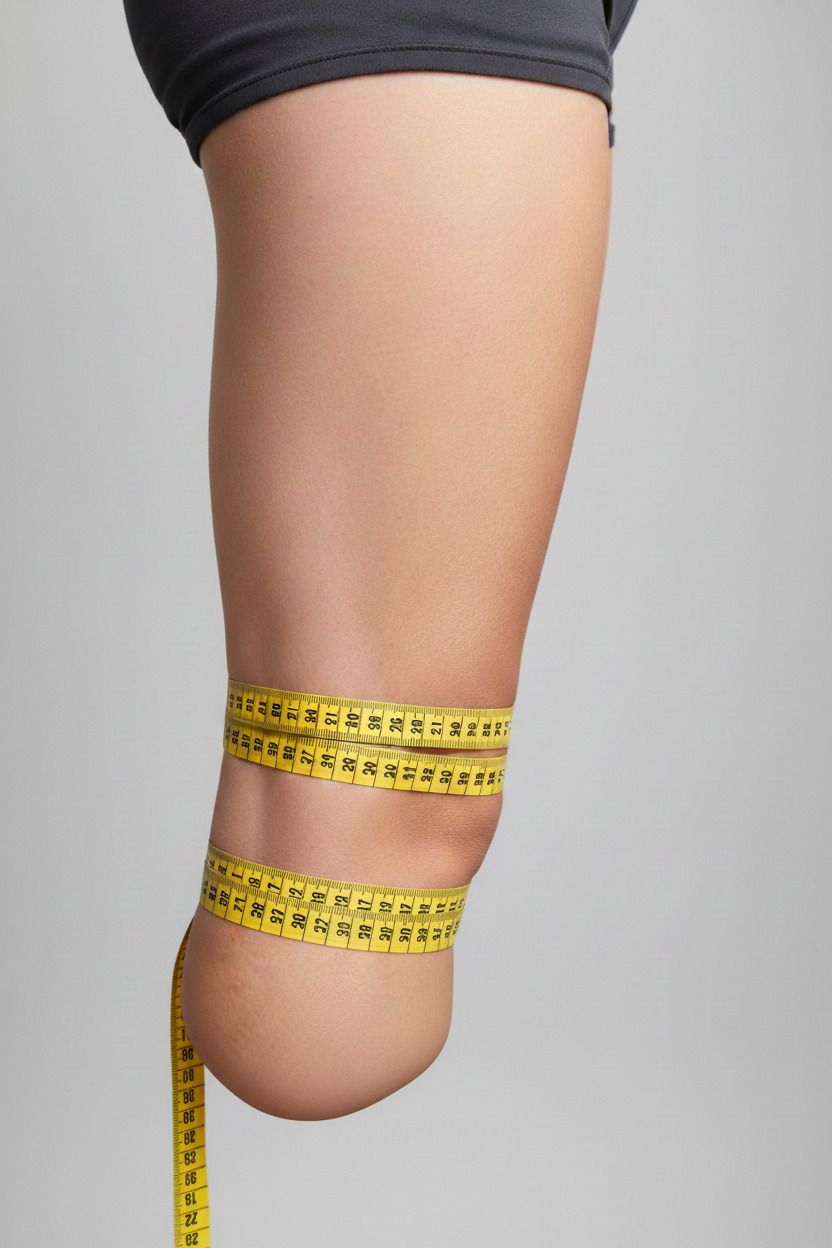
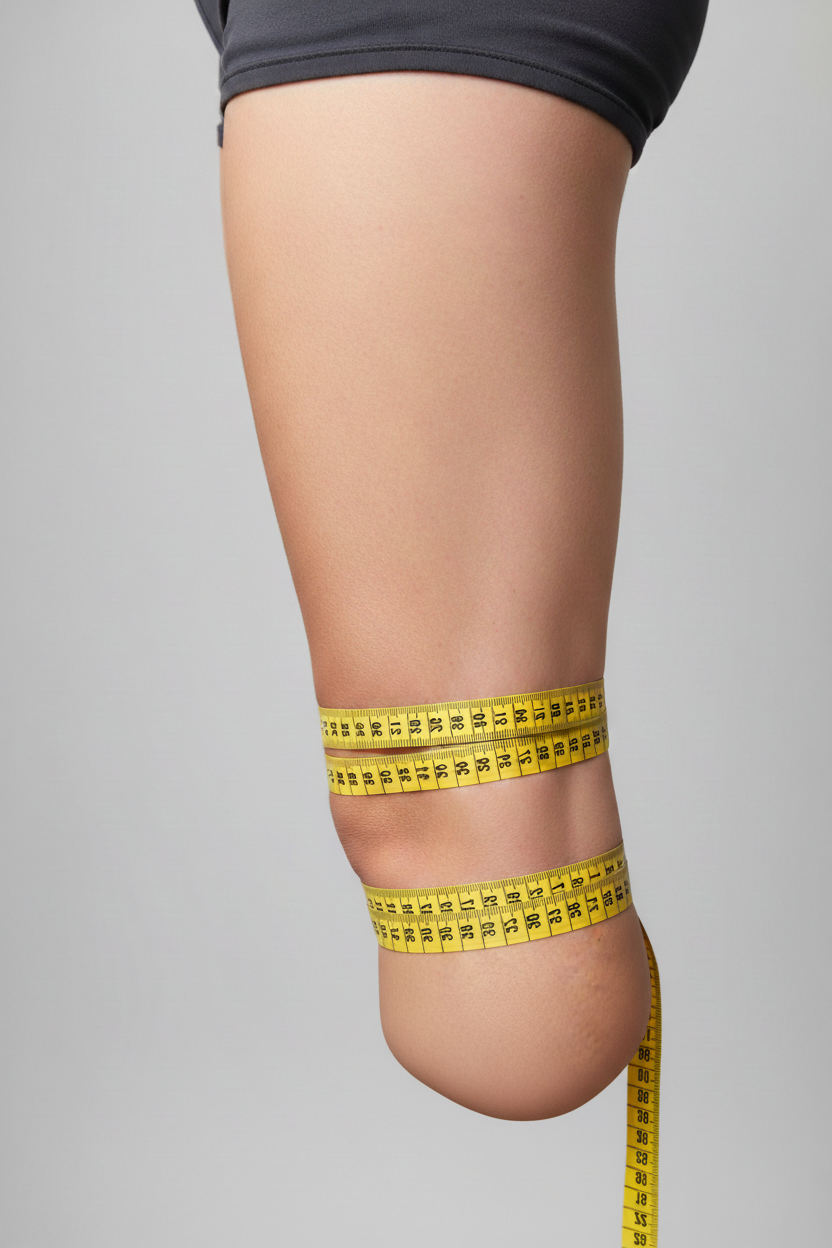
Flip BK image to match AK orientation (face right)

diff --git a/src/components/SizingGuide.jsx b/src/components/SizingGuide.jsx
@@ -147,8 +147,8 @@ function MeasurementHero({ chartData }) {
           { label: 'DISTAL', sublabel: '4 cm from end', top: 74 },
         ]
       : [
-          { label: 'PROXIMAL', sublabel: '30 cm from end', top: 48 },
-          { label: 'DISTAL', sublabel: '4 cm from end', top: 70 },
+          { label: 'PROXIMAL', sublabel: '30 cm from end', top: 46 },
+          { label: 'DISTAL', sublabel: '4 cm from end', top: 66 },
         ]
     : [
         { label: 'MEASURE HERE', sublabel: '6 cm from end', top: 48 },
